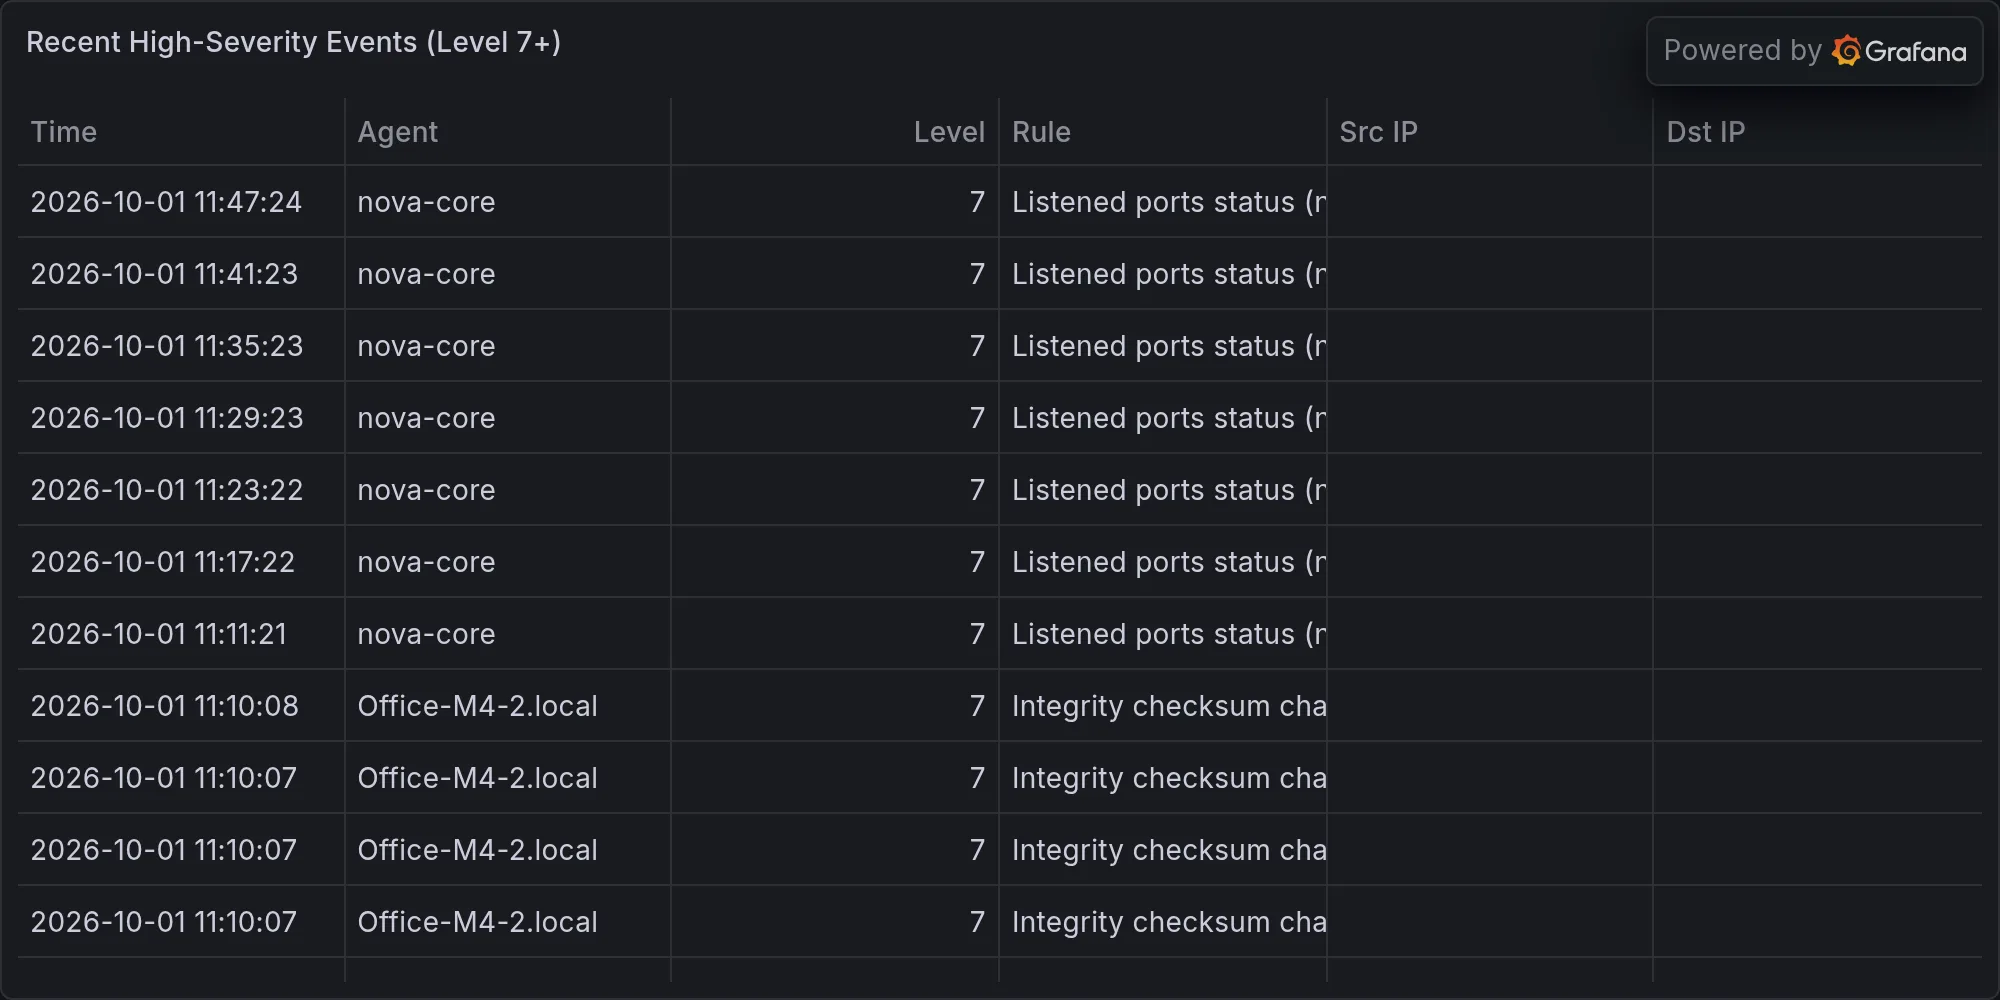
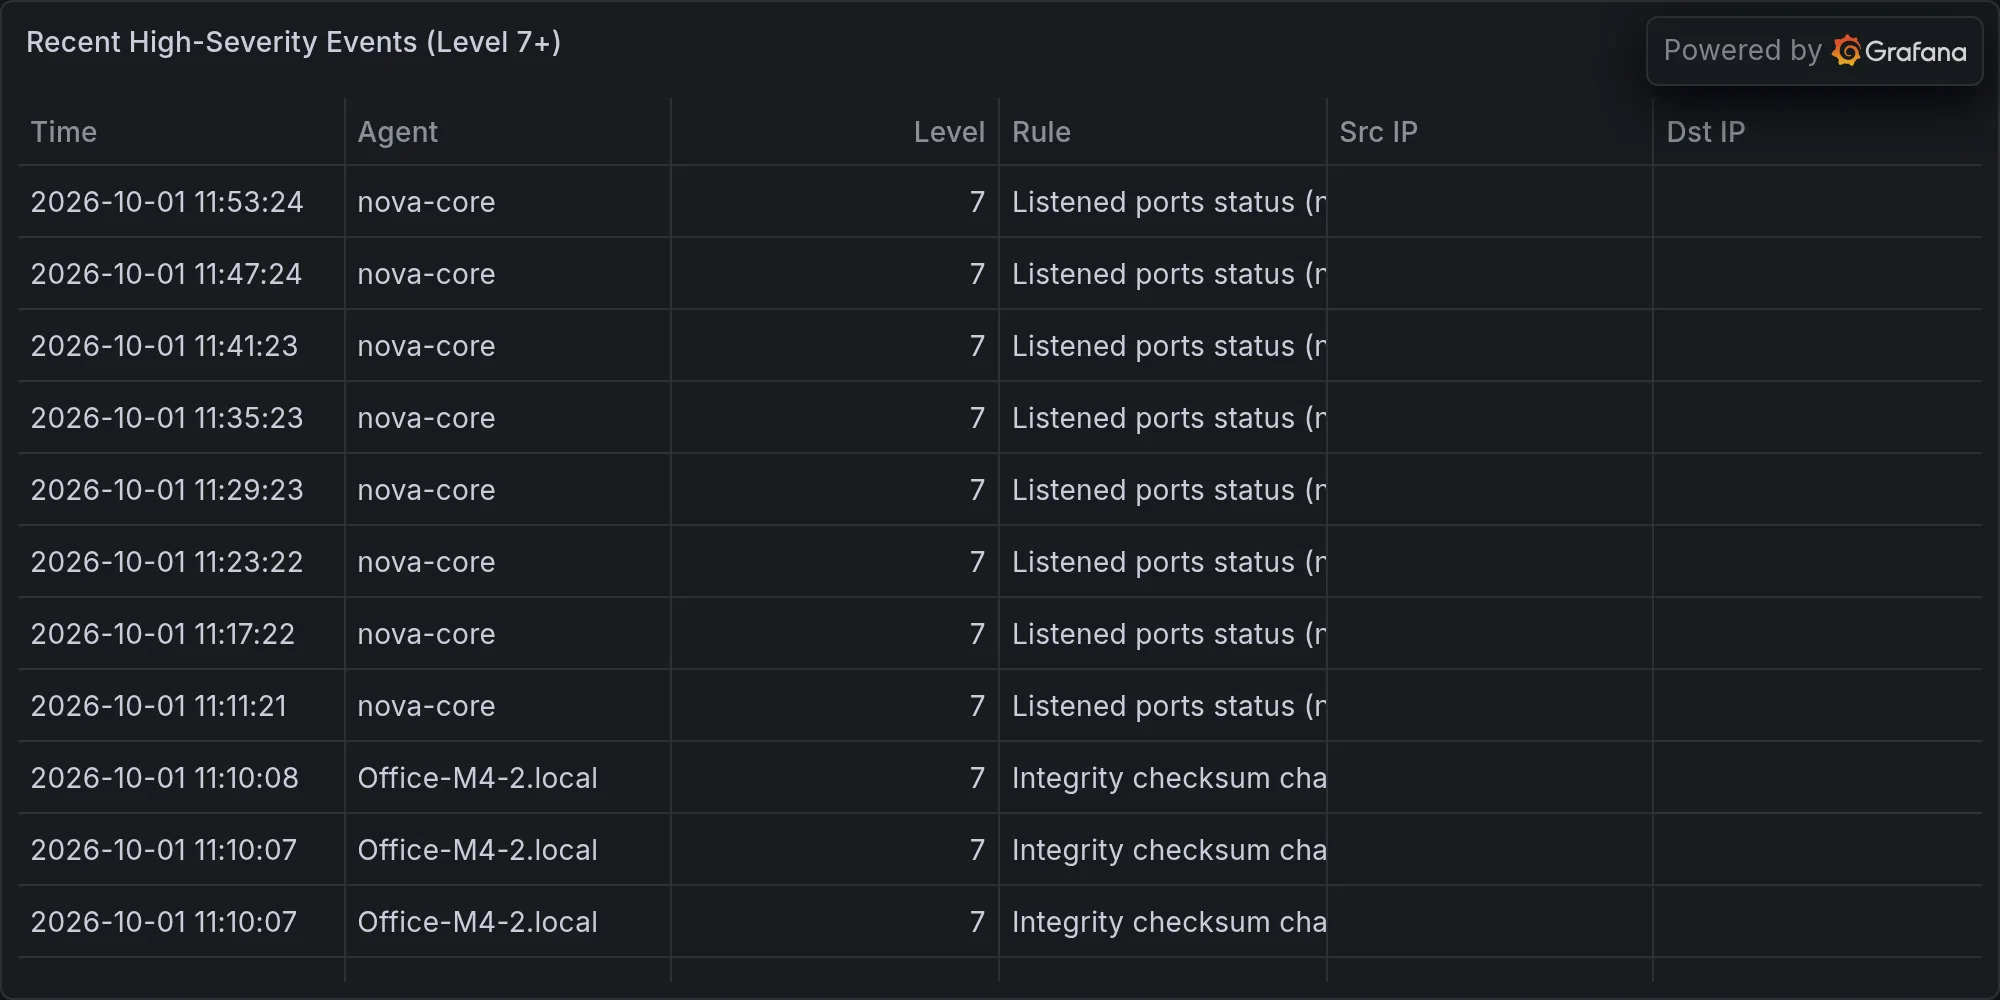
security: 2026-10-01 — **CISCO SD-WAN MANAGER AUTHENTICATION BYPASS ZERO-

diff --git a/content/operations/2026-10-01-cisco-sd-wan-manager-authentication-bypass-zero-day-actively.md b/content/operations/2026-10-01-cisco-sd-wan-manager-authentication-bypass-zero-day-actively.md
@@ -1,0 +1,54 @@
+---
+title: "🛡 **CISCO SD-WAN MANAGER AUTHENTICATION BYPASS ZERO-DAY ACTIVELY EXPLOITED**"
+date: 2026-10-01T11:53:45-07:00
+draft: false
+categories: ["operations"]
+tags: ["breaking-alert", "cso-online-cisco-sd-wan-manager-hit-by-z", "security"]
+description: "BREAKING: CSO Online: Cisco SD-WAN Manager hit by zero-day admin access attack"
+cover:
+  image: "/images/operations/2026-10-01-cisco-sd-wan-manager-authentication-bypass-zero-day-actively.webp"
+  alt: "**CISCO SD-WAN MANAGER AUTHENTICATION BYPASS ZERO-DAY ACTIVELY EXPLOITED**"
+  relative: false
+---
+
+*Published Thursday, October 01, 2026 at 11:53 AM PT*
+
+![**CISCO SD-WAN MANAGER AUTHENTICATION BYPASS ZERO-DAY ACTIVELY EXPLOITED**](/images/operations/2026-10-01-cisco-sd-wan-manager-authentication-bypass-zero-day-actively.webp)
+
+**BLUF:** Cisco Catalyst SD-WAN Manager is vulnerable to an unauthenticated remote admin access bypass (CVE-2026-76504). Attackers are exploiting this actively in the wild. Patch immediately if you operate SD-WAN deployments. Cisco has released fixes.
+
+**DETAILS**
+
+- **Vulnerability:** Improper authentication check in Cisco Catalyst SD-WAN Manager allows remote attackers to access the platform without valid credentials—bypassing authentication entirely to gain administrative privileges.
+- **Active Exploitation:** Multiple security vendors confirm this zero-day is being exploited in active attacks. The vulnerability is no longer theoretical; threat actors have proof-of-concept working code.
+- **Affected Product:** Cisco Catalyst SD-WAN Manager, the centralized management and orchestration platform for software-defined WAN (SD-WAN) deployments across enterprise networks.
+- **Patch Status:** Cisco has released patches and issued a security advisory. Patches are available; deployment timeline unclear from public disclosures.
+- **Attack Surface:** Network-accessible; no user interaction required. Any instance of SD-WAN Manager exposed to an attacker-controlled network is at immediate risk.
+
+**IMPACT**
+
+Organizations running Cisco Catalyst SD-WAN Manager for network orchestration face compromise of their entire SD-WAN infrastructure if unpatched. An unauthenticated attacker gaining admin access can:
+- Reconfigure network routing and traffic policies
+- Deploy malicious configurations to edge devices
+- Exfiltrate network topology and configuration data
+- Pivot into the broader enterprise network via SD-WAN fabric
+
+Scope is organization-wide for any entity relying on SD-WAN Manager for multi-site or multi-branch network operations. Critical for enterprises with distributed networks (retail chains, financial institutions, remote office deployments, cloud-hybrid architectures).
+
+**RECOMMENDED ACTIONS**
+
+1. **Immediate:** Identify all Cisco Catalyst SD-WAN Manager deployments in your environment (search internal asset inventory, network topology documentation, configuration management systems).
+2. **High Priority:** Apply Cisco patches to all affected instances. Coordinate with network operations to minimize downtime—SD-WAN platform updates can be staged by region/site cluster.
+3. **Temporary Mitigation (if patching delayed):** Restrict network access to SD-WAN Manager admin consoles via firewall rules to trusted administrative subnets only. Monitor for unauthorized access attempts.
+4. **Detection:** Review SD-WAN Manager access logs for unauthenticated API calls, admin account creation, or policy changes from unexpected sources.
+5. **Escalate:** Alert your CISO and network architecture team immediately. This affects infrastructure-layer control, not application layer.
+
+**SOURCES**
+
+CSO Online, SOC Prime, The Hacker News, BleepingComputer, SecurityWeek, Help Net Security (CVE-2026-76504)
+
+---
+
+**Recent high-severity events at publish time:**
+
+![Recent high-severity events](/images/operations/2026-10-01-breaking-alert-posture.webp)
